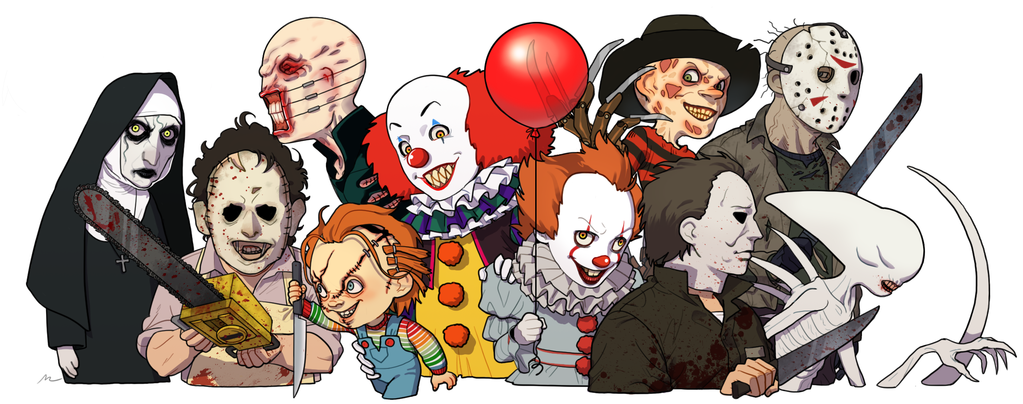
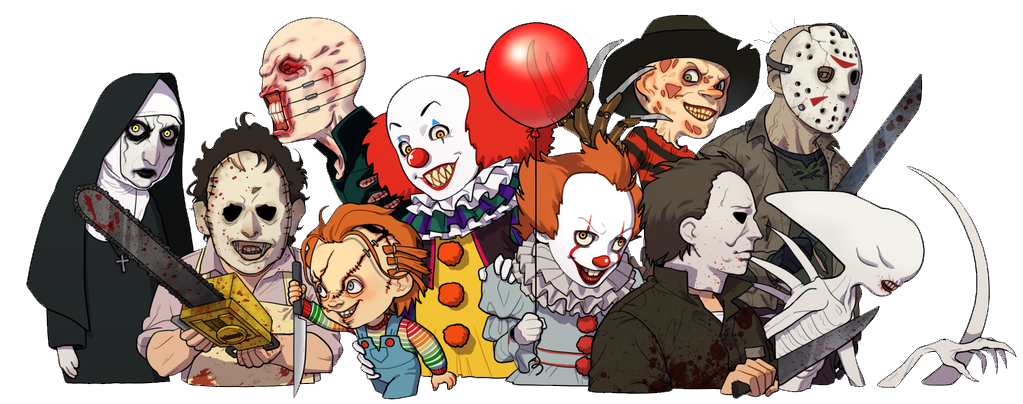
Switch background image && modify style

diff --git a/src/components/Hello.vue b/src/components/Hello.vue
@@ -6,6 +6,9 @@
           Ivan Milosevic
         </h1>
         <h2 class="subtitle">
+          aka Alvai
+        </h2>
+        <h2 class="subtitle">
           Full-Stack Web developer
         </h2>
         <Resume />
@@ -16,16 +19,12 @@
 
 <style lang="scss">
 .hello {
-  background: linear-gradient(
-      rgba(255, 218, 107, 0.6),
-      rgba(255, 218, 107, 0.6)
-    ),
-    url("../assets/killers.png");
+  background: url(../assets/killers.png) no-repeat, $primary-color;
+  background-size: 31.25em;
   background-position: center;
-  background-repeat: no-repeat;
   background-position-y: 100%;
-  @media screen and (max-width: 700px) {
-    background-size: 180%;
+  @media screen and (max-width: $desktop) {
+    background-size: 90vw;
   }
   .title {
     font-size: 5vw;
